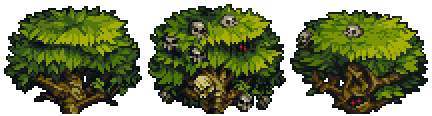
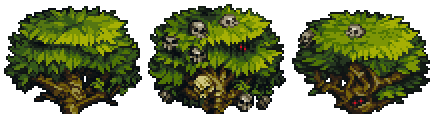
more fixes (primarily briar plant fixes)

Changed region(s): [[0.662, 0.0776, 1.0, 0.9828]]

diff --git a/Tiles/Block/ReachTree.cs b/Tiles/Block/ReachTree.cs
@@ -18,18 +18,24 @@ namespace SpiritMod.Tiles.Block
 			SpecialGroupMaximumSaturationValue = 1f
 		};
 
-		public override void SetStaticDefaults() => GrowsOnTileId = new int[] { ModContent.TileType<ReachGrassTile>() };
+		public override void SetStaticDefaults() => GrowsOnTileId = new int[] { ModContent.TileType<BriarGrass>() };
 		public override int CreateDust() => 22;
 		public override int DropWood() => ModContent.ItemType<AncientBark>();
-		public override Asset<Texture2D> GetTexture() => ModContent.Request<Texture2D>("Tiles/Block/ReachTree");
-		public override Asset<Texture2D> GetTopTextures() => ModContent.Request<Texture2D>("Tiles/Block/ReachTree_Tops");
-		public override Asset<Texture2D> GetBranchTextures() => ModContent.Request<Texture2D>("Tiles/Block/ReachTree_Branches");
+		public override Asset<Texture2D> GetTexture() => ModContent.Request<Texture2D>("SpiritMod/Tiles/Block/ReachTree");
+		public override Asset<Texture2D> GetTopTextures() => ModContent.Request<Texture2D>("SpiritMod/Tiles/Block/ReachTree_Tops");
+		public override Asset<Texture2D> GetBranchTextures() => ModContent.Request<Texture2D>("SpiritMod/Tiles/Block/ReachTree_Branches");
+
+		public override int SaplingGrowthType(ref int style)
+		{
+			style = 0;
+			return ModContent.TileType<ReachSapling>();
+		}
 
 		public override void SetTreeFoliageSettings(Tile tile, ref int xoffset, ref int treeFrame, ref int floorY, ref int topTextureFrameWidth, ref int topTextureFrameHeight)
 		{
-			topTextureFrameWidth = 114;
-			topTextureFrameHeight = 116;
-			xoffset = 64;
+			topTextureFrameWidth = 142;
+			topTextureFrameHeight = 114;
+			xoffset = 62;
 			floorY = 2;
 		}
 	}

diff --git a/Tiles/Block/ReachSapling.cs b/Tiles/Block/ReachSapling.cs
@@ -17,29 +17,33 @@ namespace SpiritMod.Tiles.Block
 			Main.tileFrameImportant[Type] = true;
 			Main.tileNoAttach[Type] = true;
 			Main.tileLavaDeath[Type] = true;
+
 			TileObjectData.newTile.Width = 1;
 			TileObjectData.newTile.Height = 2;
 			TileObjectData.newTile.Origin = new Point16(0, 1);
 			TileObjectData.newTile.AnchorBottom = new AnchorData(AnchorType.SolidTile, TileObjectData.newTile.Width, 0);
 			TileObjectData.newTile.UsesCustomCanPlace = true;
-			TileObjectData.newTile.CoordinateHeights = new int[] { 16, 18 };
+			TileObjectData.newTile.CoordinateHeights = new[] { 16, 18 };
 			TileObjectData.newTile.CoordinateWidth = 16;
 			TileObjectData.newTile.CoordinatePadding = 2;
-			TileObjectData.newTile.AnchorValidTiles = new int[] { ModContent.TileType<BriarGrass>() };
+			TileObjectData.newTile.AnchorValidTiles = new[] { ModContent.TileType<BriarGrass>() };
 			TileObjectData.newTile.StyleHorizontal = true;
 			TileObjectData.newTile.DrawFlipHorizontal = true;
 			TileObjectData.newTile.WaterPlacement = LiquidPlacement.NotAllowed;
 			TileObjectData.newTile.LavaDeath = true;
 			TileObjectData.newTile.RandomStyleRange = 3;
+			TileObjectData.newTile.StyleMultiplier = 3;
 			TileObjectData.addTile(Type);
 
 			TileID.Sets.TreeSapling[Type] = true;
 			TileID.Sets.CommonSapling[Type] = true;
 			TileID.Sets.SwaysInWindBasic[Type] = true;
 			TileMaterials.SetForTileId(Type, TileMaterials._materialsByName["Plant"]);
+
 			ModTranslation name = CreateMapEntryName();
 			name.SetDefault("Sapling");
 			AddMapEntry(new Color(200, 200, 200), name);
+
 			DustType = DustID.Stone;
 			AdjTiles = new int[] { TileID.Saplings };
 		}

diff --git a/SceneEffects/OceanUnderwaterScene.cs b/SceneEffects/OceanUnderwaterScene.cs
@@ -7,9 +7,11 @@ namespace SpiritMod.SceneEffects
 {
 	internal class OceanUnderwaterScene : ModSceneEffect
 	{
-		public override int Music => MusicLoader.GetMusicSlot(Mod, "Sounds/Music/UnderwaterMusic");
+		public override ModSurfaceBackgroundStyle SurfaceBackgroundStyle => ModContent.Find<ModSurfaceBackgroundStyle>("SpiritMod/Biomes/OceanDepthsBGStyle");
+
+		public override int Music => ModContent.GetInstance<SpiritMusicConfig>().UnderwaterMusic ? MusicLoader.GetMusicSlot(Mod, "Sounds/Music/UnderwaterMusic") : -1;
 		public override SceneEffectPriority Priority => SceneEffectPriority.Environment;
 		public override bool IsSceneEffectActive(Player player) => ModContent.GetInstance<SpiritMusicConfig>().UnderwaterMusic && player.ZoneBeach && !MyWorld.luminousOcean && player.GetSpiritPlayer().isFullySubmerged && DetectThoriumCompat(player);
-		private bool DetectThoriumCompat(Player player) => ModLoader.TryGetMod("ThoriumMod", out Mod thoriumMod) && thoriumMod.Call("GetZoneAquaticDepths", player) is bool inDepths && !inDepths;
+		private bool DetectThoriumCompat(Player player) => !ModLoader.TryGetMod("ThoriumMod", out Mod thoriumMod) || (thoriumMod.Call("GetZoneAquaticDepths", player) is bool inDepths && !inDepths);
 	}
 }

diff --git a/Biomes/OceanDepthsBGStyle.cs b/Biomes/OceanDepthsBGStyle.cs
@@ -1,21 +1,19 @@
-using Terraria;
 using Terraria.ModLoader;
 
-namespace SpiritMod.Backgrounds
+namespace SpiritMod.Biomes
 {
 	public class OceanDepthsBGStyle : ModSurfaceBackgroundStyle
 	{
-		public override int ChooseFarTexture() => BackgroundTextureLoader.GetBackgroundSlot(Mod, "Biomes/Assets/OceanUnderwaterBG3");
-		public override int ChooseMiddleTexture() => BackgroundTextureLoader.GetBackgroundSlot(Mod, "Biomes/Assets/OceanUnderwaterBG2");
+		public override int ChooseFarTexture() => BackgroundTextureLoader.GetBackgroundSlot(Mod, "Backgrounds/OceanUnderwaterBG3");
+		public override int ChooseMiddleTexture() => BackgroundTextureLoader.GetBackgroundSlot(Mod, "Backgrounds/OceanUnderwaterBG2");
 
 		public override int ChooseCloseTexture(ref float scale, ref double parallax, ref float a, ref float b)
 		{
 			scale *= .86f;
 			b -= 300;
-			return BackgroundTextureLoader.GetBackgroundSlot("Biomes/Assets/OceanUnderwaterBG2");
+			return BackgroundTextureLoader.GetBackgroundSlot("Backgrounds/OceanUnderwaterBG2");
 		}
 
-		// Use this to keep far Backgrounds like the mountains.
 		public override void ModifyFarFades(float[] fades, float transitionSpeed)
 		{
 			for (int i = 0; i < fades.Length; i++)

diff --git a/Utilities/SpiritDetours.cs b/Utilities/SpiritDetours.cs
@@ -57,11 +57,11 @@ namespace SpiritMod.Utilities
 
 			SurfaceWaterModifications.Load();
 
-			//foreach (var item in typeof(SpiritDetours).Assembly.GetTypes().Where(x => typeof(ILEdit).IsAssignableFrom(x) && !x.IsAbstract))
-			//{
-			//	var inst = (ILEdit)Activator.CreateInstance(item);
-			//	inst.Load(SpiritMod.Instance);
-			//}
+			foreach (var item in typeof(SpiritDetours).Assembly.GetTypes().Where(x => typeof(ILEdit).IsAssignableFrom(x) && !x.IsAbstract))
+			{
+				var inst = (ILEdit)Activator.CreateInstance(item);
+				inst.Load(SpiritMod.Instance);
+			}
 		}
 
 		private static void Main_DrawMap1(On.Terraria.Main.orig_DrawMap orig, Main self, GameTime gameTime)

diff --git a/Tiles/Ambient/ReachGrass1.cs b/Tiles/Ambient/ReachGrass1.cs
@@ -1,7 +1,6 @@
-
 using Microsoft.Xna.Framework;
-
 using Terraria;
+using Terraria.GameContent.Metadata;
 using Terraria.ID;
 using Terraria.ModLoader;
 using Terraria.ObjectData;
@@ -20,11 +19,13 @@ namespace SpiritMod.Tiles.Ambient
 			TileObjectData.newTile.CoordinateHeights = new int[] { 16, 16, 16 };
 			TileObjectData.addTile(Type);
 			ModTranslation name = CreateMapEntryName();
+
+			TileMaterials.SetForTileId(Type, TileMaterials._materialsByName["Plant"]);
+			TileID.Sets.SwaysInWindBasic[Type] = true;
+
 			name.SetDefault("Spiky Grass");
 			AddMapEntry(new Color(200, 200, 200), name);
 			AdjTiles = new int[] { TileID.Lamps };
 		}
-
-
 	}
 }

diff --git a/NPCs/Pokey/Pokey_Body.cs b/NPCs/Pokey/Pokey_Body.cs
@@ -16,7 +16,7 @@ namespace SpiritMod.NPCs.Pokey
         private int segments = 15;
         public override void SetStaticDefaults()
 		{
-			DisplayName.SetDefault("Pokey");
+			DisplayName.SetDefault("Stactus");
             Main.npcFrameCount[NPC.type] = 3;
         }
         public override void SetDefaults()
@@ -290,7 +290,7 @@ namespace SpiritMod.NPCs.Pokey
 					Delete();
 			}
 			catch (System.Exception) {
-				throw new Exception("It's in delete number " + QueueFromBottom().ToString());
+				throw new Exception("[Stactus] It's in delete number " + QueueFromBottom().ToString());
 			}
 			return true;
 		}

diff --git a/Tiles/Ambient/Briar/BriarFoliage.cs b/Tiles/Ambient/Briar/BriarFoliage.cs
@@ -3,6 +3,7 @@ using Microsoft.Xna.Framework.Graphics;
 using System;
 using Terraria;
 using Terraria.DataStructures;
+using Terraria.GameContent.Metadata;
 using Terraria.ID;
 using Terraria.ModLoader;
 
@@ -16,6 +17,9 @@ namespace SpiritMod.Tiles.Ambient.Briar
 			Main.tileCut[Type] = true;
 			Main.tileNoFail[Type] = true;
 			Main.tileMergeDirt[Type] = true;
+
+			TileMaterials.SetForTileId(Type, TileMaterials._materialsByName["Plant"]);
+			TileID.Sets.SwaysInWindBasic[Type] = true;
 
 			DustType = DustID.Plantera_Green;
 			HitSound = SoundID.Grass;

diff --git a/Tiles/Ambient/Briar/BriarVines.cs b/Tiles/Ambient/Briar/BriarVines.cs
@@ -3,6 +3,7 @@ using Microsoft.Xna.Framework.Graphics;
 using SpiritMod.Tiles.Block;
 using System;
 using Terraria;
+using Terraria.GameContent.Metadata;
 using Terraria.ID;
 using Terraria.ModLoader;
 
@@ -18,6 +19,10 @@ namespace SpiritMod.Tiles.Ambient.Briar
 			Main.tileNoFail[Type] = true;
 			Main.tileNoAttach[Type] = true;
 			Main.tileLighted[Type] = false;
+
+			TileMaterials.SetForTileId(Type, TileMaterials._materialsByName["Plant"]);
+			TileID.Sets.IsVine[Type] = true;
+
 			HitSound = SoundID.Grass;
 			DustType = DustID.Plantera_Green;
 

diff --git a/Tiles/Ambient/SkullStick.cs b/Tiles/Ambient/SkullStick.cs
@@ -4,6 +4,7 @@ using Microsoft.Xna.Framework.Graphics;
 
 using Terraria;
 using Terraria.Enums;
+using Terraria.ID;
 using Terraria.ModLoader;
 using Terraria.ObjectData;
 
@@ -17,6 +18,7 @@ namespace SpiritMod.Tiles.Ambient
 			Main.tileFrameImportant[Type] = true;
 			Main.tileNoAttach[Type] = true;
 			Main.tileLavaDeath[Type] = true;
+			TileID.Sets.SwaysInWindBasic[Type] = true;
 			TileObjectData.newTile.CopyFrom(TileObjectData.Style2xX);
 			TileObjectData.newTile.Height = 4;
 			TileObjectData.newTile.Width = 2;

diff --git a/Tiles/Ambient/SkullStick3.cs b/Tiles/Ambient/SkullStick3.cs
@@ -15,6 +15,7 @@ namespace SpiritMod.Tiles.Ambient
 			Main.tileFrameImportant[Type] = true;
 			Main.tileNoAttach[Type] = true;
 			Main.tileLavaDeath[Type] = true;
+			TileID.Sets.SwaysInWindBasic[Type] = true;
 			TileObjectData.newTile.CopyFrom(TileObjectData.Style1xX);
 			TileObjectData.newTile.Height = 2;
 			TileObjectData.newTile.CoordinateHeights = new int[]

diff --git a/Tiles/Ambient/SkullStick3Flip.cs b/Tiles/Ambient/SkullStick3Flip.cs
@@ -15,6 +15,7 @@ namespace SpiritMod.Tiles.Ambient
 			Main.tileFrameImportant[Type] = true;
 			Main.tileNoAttach[Type] = true;
 			Main.tileLavaDeath[Type] = true;
+			TileID.Sets.SwaysInWindBasic[Type] = true;
 			TileObjectData.newTile.CopyFrom(TileObjectData.Style1xX);
 			TileObjectData.newTile.Height = 2;
 			TileObjectData.newTile.CoordinateHeights = new int[]
